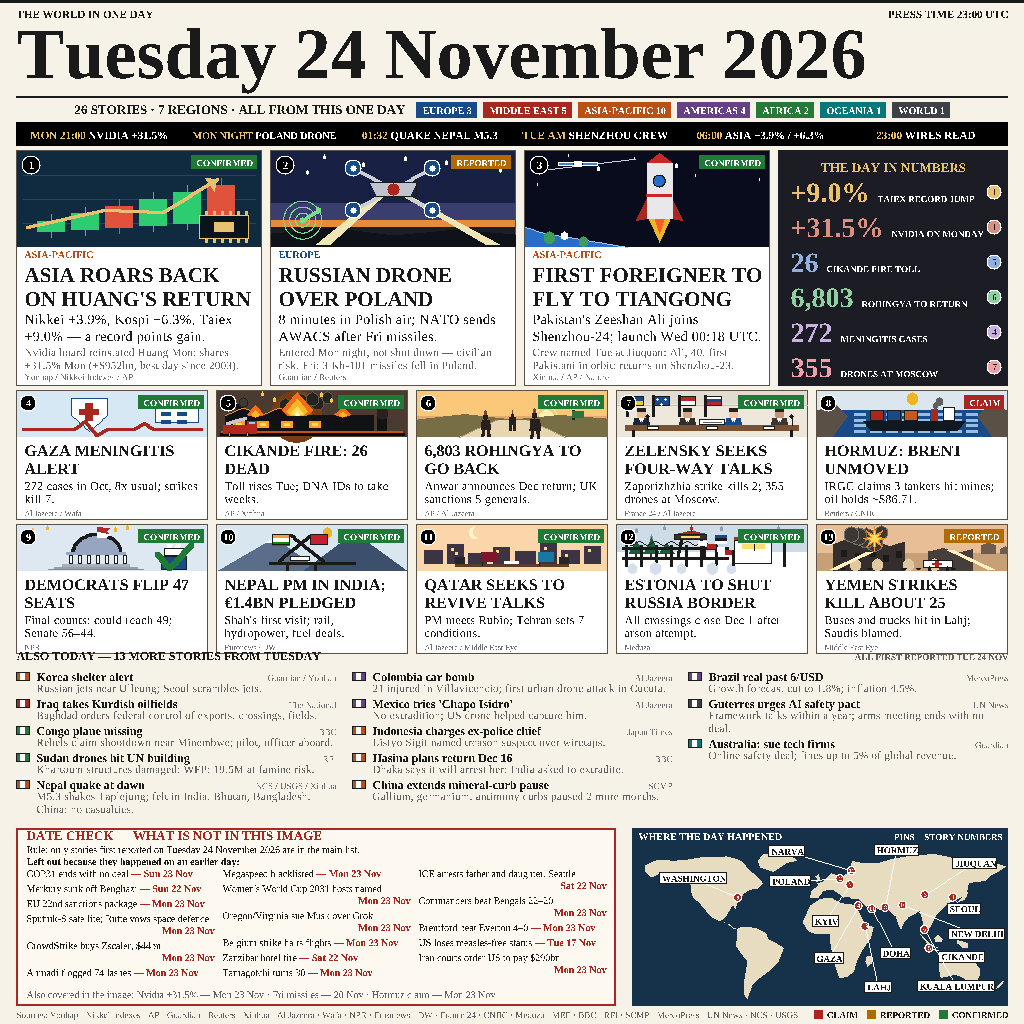
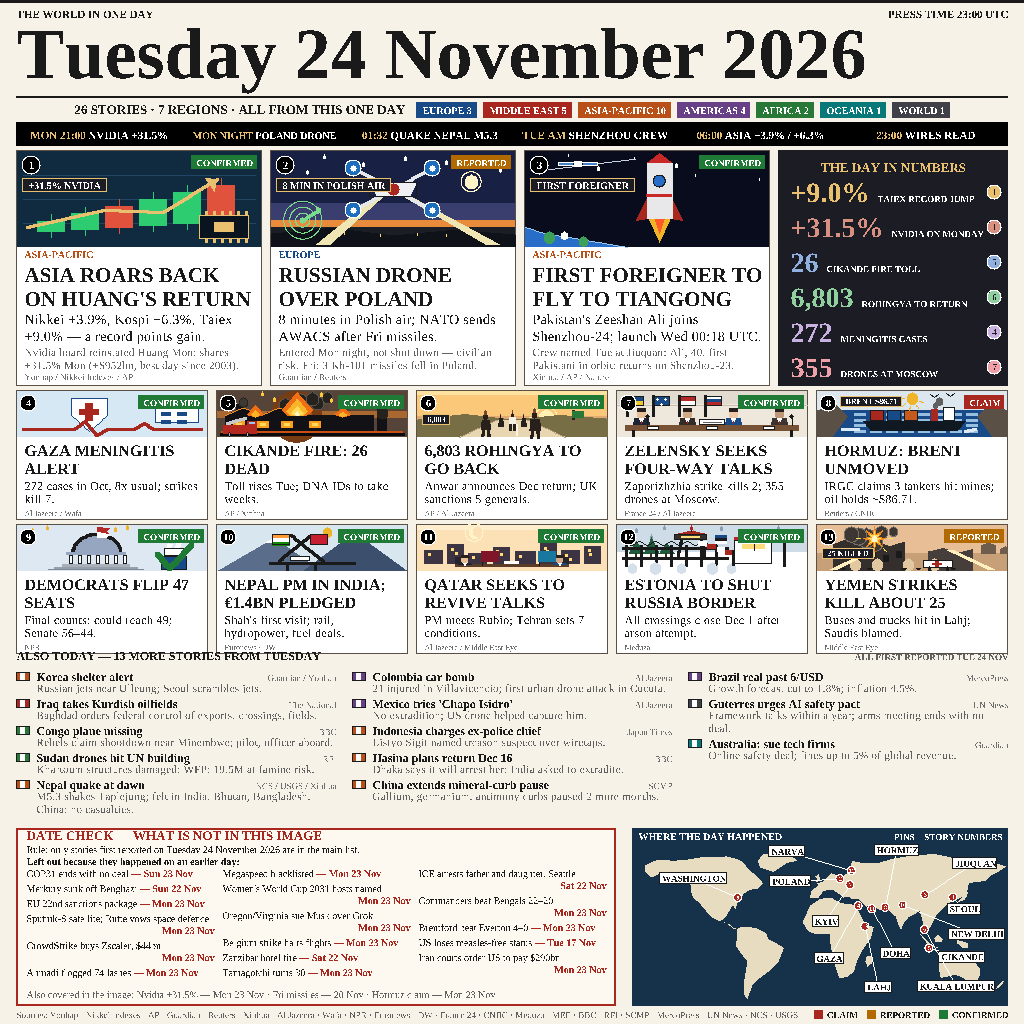
v2.4: dark callout pills on leads 1-3 + cards 6/8/13, brighter drone/factory/Rohingya/Qatar/tanker/Yemen art, text + map re-verified

diff --git a/main.py b/main.py
@@ -443,6 +443,25 @@ def draw_badge(x_right, y_top, badge):
     return w
 
 
+# v2.4: dark callout pills with a gold outline, for the lead cards' key
+# hook/metric and for the small cards' headline numbers. Facts only,
+# taken verbatim from STORY-LIST.md (nothing invented).
+LEAD_CALLOUTS = {1: "+31.5% NVIDIA", 2: "8 MIN IN POLISH AIR",
+                  3: "FIRST FOREIGNER"}
+SMALL_CALLOUTS = {6: "6,803", 8: "BRENT $86.71", 13: "25 KILLED"}
+
+
+def draw_callout(x, y_top, text, size=10):
+    """Dark pill, left-aligned at x, top at y_top. Returns width."""
+    pad = 6 if size >= 10 else 5
+    w = int(math.ceil(text_width(text, size, "bold"))) + pad * 2
+    h = 14 if size >= 10 else 11
+    fill_rect(x, y_top, x + w, y_top + h, DARK)
+    draw_rect_outline(x, y_top, x + w, y_top + h, GOLD, 1)
+    draw_text(x + pad, y_top + h - 3, text, size, "bold", WHITE)
+    return w
+
+
 def draw_num_disc(cx, cy, num, r=9, bg=BLACK, fg=WHITE, size=11):
     fill_circle(cx, cy, r, bg)
     draw_circle_ring(cx, cy, r, WHITE)
@@ -516,6 +535,12 @@ def art_drone(x, y, w, h):
     fill_poly([(x, y + h), (x, y + h * 0.86), (x + w * 0.25, y + h * 0.80),
                (x + w * 0.5, y + h * 0.88), (x + w * 0.75, y + h * 0.82),
                (x + w, y + h * 0.87), (x + w, y + h)], (16, 18, 26))
+    # settlement lights along the terrain + a moon (clear of the badge)
+    for (lx, ly) in [(0.30, 0.86), (0.45, 0.885), (0.60, 0.865),
+                      (0.72, 0.885)]:
+        fill_circle(x + w * lx, y + h * ly, 1, (255, 220, 120))
+    fill_circle(x + w * 0.82, y + h * 0.32, 7, (255, 244, 200))
+    draw_circle_ring(x + w * 0.82, y + h * 0.32, 10, (255, 244, 200))
     # searchlight beams from the ground to the drone
     cx, cy = x + w * 0.50, y + h * 0.40
     fill_poly([(x + w * 0.18, y + h - 2), (x + w * 0.24, y + h - 2),
@@ -532,12 +557,12 @@ def art_drone(x, y, w, h):
     # drone: arms, rotors, body, red eye
     for (dx, dy) in [(-1, -1), (1, -1), (-1, 1), (1, 1)]:
         ax, ay = cx + dx * w * 0.16, cy + dy * h * 0.22
-        draw_line(int(cx), int(cy), int(ax), int(ay), (200, 205, 215), 3)
-        fill_circle(int(ax), int(ay), 8, (24, 74, 135))
+        draw_line(int(cx), int(cy), int(ax), int(ay), (228, 231, 236), 3)
+        fill_circle(int(ax), int(ay), 8, (30, 110, 190))
         draw_circle_ring(int(ax), int(ay), 8, WHITE)
         fill_circle(int(ax), int(ay), 3, WHITE)
     fill_poly([(cx - 24, cy - 7), (cx + 24, cy - 7), (cx + 16, cy + 8),
-               (cx - 16, cy + 8)], (190, 195, 205))
+               (cx - 16, cy + 8)], (238, 240, 244))
     draw_rect_outline(cx - 24, cy - 7, cx + 24, cy + 8, INK, 1)
     fill_circle(int(cx), int(cy), 6, RED)
 
@@ -622,7 +647,10 @@ def art_cross(x, y, w, h):
 
 def art_flame(x, y, w, h):
     """Cikande factory fire: structure, bright flames, dark smoke."""
-    fill_rect(x, y, x + w, y + h, (74, 58, 48))
+    fill_rect(x, y, x + w, y + h, (86, 68, 56))
+    # lighter horizon band behind the factory so the black silhouette
+    # (and its sawtooth roof) reads as a building, never a hill
+    fill_rect(x, y + int(h * 0.44), x + w, y + int(h * 0.60), (168, 104, 48))
     # warm glow behind the flames
     fill_circle(x + w * 0.42, y + h * 0.55, 26, (120, 60, 20))
     fill_circle(x + w * 0.42, y + h * 0.55, 16, (170, 80, 20))
@@ -693,10 +721,18 @@ def art_flame(x, y, w, h):
 def art_boat(x, y, w, h):
     """Rohingya return: dawn road, walking families, hills, flag."""
     fill_rect(x, y, x + w, y + h * 0.55, (250, 200, 120))
+    fill_rect(x, y, x + w, y + int(h * 0.10), (255, 226, 160))
     fill_rect(x, y + h * 0.55, x + w, y + h, (226, 170, 110))
-    # sun, low on the horizon (clear of the badge)
+    # sun, low on the horizon (clear of the badge), with rays
     fill_circle(x + w * 0.68, y + h * 0.58, 8, (255, 240, 180))
     draw_circle_ring(x + w * 0.68, y + h * 0.58, 11, (255, 240, 180))
+    for ang in (10, 55, 100, 145, 180, -145, -100):
+        t = math.radians(ang)
+        x1 = x + w * 0.68 + 12 * math.cos(t)
+        y1 = y + h * 0.58 + 12 * math.sin(t)
+        x2 = x + w * 0.68 + 17 * math.cos(t)
+        y2 = y + h * 0.58 + 17 * math.sin(t)
+        draw_line(int(x1), int(y1), int(x2), int(y2), (255, 240, 180), 1)
     # distant hills
     fill_poly([(x, y + h * 0.62), (x + w * 0.25, y + h * 0.50),
                (x + w * 0.5, y + h * 0.62), (x + w * 0.75, y + h * 0.52),
@@ -707,14 +743,23 @@ def art_boat(x, y, w, h):
                (x + w * 0.78, y + h), (x + w * 0.22, y + h)], (232, 214, 178))
     draw_line(x + w * 0.42, y + h * 0.62, x + w * 0.22, y + h, (180, 160, 120), 1)
     draw_line(x + w * 0.58, y + h * 0.62, x + w * 0.78, y + h, (180, 160, 120), 1)
-    # walking figures, near to far
-    for (fx, fy, s) in [(0.36, 0.76, 1.05), (0.50, 0.68, 0.8),
-                         (0.62, 0.76, 1.2)]:
+    # dashed centre line on the road (offset right of the middle walker)
+    for t in (0.30, 0.52, 0.74):
+        dx = x + w * 0.53
+        dy = y + h * (0.62 + t * 0.38)
+        fill_rect(dx - 1, dy, dx + 1, dy + 4, (250, 244, 225))
+    # walking figures, near to far (middle walker in a light shirt;
+    # two small distant walkers near the horizon)
+    for (fx, fy, s, shirt) in [(0.36, 0.76, 1.05, (40, 32, 28)),
+                                (0.50, 0.68, 0.8, (245, 240, 225)),
+                                (0.62, 0.76, 1.2, (40, 32, 28)),
+                                (0.44, 0.645, 0.45, (40, 32, 28)),
+                                (0.56, 0.645, 0.45, (40, 32, 28))]:
         px, py = x + w * fx, y + h * fy
         fill_circle(px, py - 9 * s, 3 * s, (40, 32, 28))
         fill_poly([(px - 4 * s, py - 6 * s), (px + 4 * s, py - 6 * s),
                    (px + 5 * s, py + 4 * s), (px - 5 * s, py + 4 * s)],
-                  (40, 32, 28))
+                  shirt)
         draw_line(px - 2 * s, py + 4 * s, px - 3 * s, py + 9 * s, (40, 32, 28), 2)
         draw_line(px + 2 * s, py + 4 * s, px + 3 * s, py + 9 * s, (40, 32, 28), 2)
         # bundle on the head
@@ -816,8 +861,25 @@ def art_tanker(x, y, w, h):
         bx = hx0 + 8 + i * 17
         fill_rect(bx, hy - 11, bx + 14, hy, c)
         draw_rect_outline(bx, hy - 11, bx + 14, hy, INK, 1)
-    # sun
+    # wake foam behind the hull + bow wave
+    for wx in range(int(hx0 - 20), int(hx0 - 2), 6):
+        draw_line(wx, int(hy + 8), wx + 4, int(hy + 8), (220, 235, 245), 2)
+    draw_line(int(hx1), int(hy + 10), int(hx1 + 10), int(hy + 8),
+              (220, 235, 245), 2)
+    # sun with short rays (downward/side only: the sun sits near the top)
     fill_circle(x + w * 0.50, y + h * 0.16, 6, (240, 180, 40))
+    for ang in (20, 60, 100, 140, 180):
+        t = math.radians(ang)
+        x1 = x + w * 0.50 + 8 * math.cos(t)
+        y1 = y + h * 0.16 + 8 * math.sin(t)
+        x2 = x + w * 0.50 + 12 * math.cos(t)
+        y2 = y + h * 0.16 + 12 * math.sin(t)
+        draw_line(int(x1), int(y1), int(x2), int(y2), (240, 180, 40), 1)
+    # gulls in the sky, right of the sun and clear of the CLAIM badge
+    for (gx, gy) in [(0.62, 0.08), (0.70, 0.05)]:
+        cx, cy = x + w * gx, y + h * gy
+        draw_line(int(cx - 4), int(cy), int(cx), int(cy + 3), INK, 1)
+        draw_line(int(cx), int(cy + 3), int(cx + 4), int(cy), INK, 1)
 
 
 def art_ballot(x, y, w, h):
@@ -903,10 +965,12 @@ def art_mountain(x, y, w, h):
 
 def art_talks(x, y, w, h):
     """Doha talks: West Bay skyline at dusk, long table, two flags."""
-    fill_rect(x, y, x + w, y + h, (250, 214, 170))
-    # crescent moon, top centre-left
+    fill_rect(x, y, x + w, y + h, (252, 224, 182))
+    fill_rect(x, y, x + w, y + int(h * 0.12), (255, 238, 205))
+    # crescent moon, top centre-left, with a glow ring
     fill_circle(x + w * 0.30, y + h * 0.16, 6, (255, 244, 200))
-    fill_circle(x + w * 0.30 + 3, y + h * 0.16 - 1, 5, (250, 214, 170))
+    fill_circle(x + w * 0.30 + 3, y + h * 0.16 - 1, 5, (252, 224, 182))
+    draw_circle_ring(x + w * 0.30, y + h * 0.16, 9, (255, 244, 200))
     # skyline silhouettes
     towers = [(0.04, 0.55, 0.10), (0.16, 0.42, 0.09), (0.27, 0.62, 0.10),
               (0.40, 0.48, 0.09), (0.52, 0.58, 0.11), (0.65, 0.40, 0.09),
@@ -917,9 +981,11 @@ def art_talks(x, y, w, h):
     # pointed tower, centre-right
     fill_poly([(x + w * 0.65, y + h * 0.40), (x + w * 0.69, y + h * 0.30),
                (x + w * 0.74, y + h * 0.40)], (60, 52, 66))
-    # lit windows
-    for (wx, wy) in [(0.18, 0.50), (0.20, 0.60), (0.42, 0.56), (0.67, 0.48),
-                      (0.78, 0.64), (0.90, 0.54)]:
+    # lit windows (one per tower face, checked against the tower list)
+    for (wx, wy) in [(0.06, 0.62), (0.18, 0.50), (0.20, 0.60), (0.29, 0.68),
+                      (0.42, 0.56), (0.44, 0.62), (0.54, 0.66), (0.67, 0.48),
+                      (0.68, 0.56), (0.78, 0.64), (0.80, 0.72), (0.90, 0.54),
+                      (0.91, 0.62)]:
         fill_rect(x + w * wx, y + h * wy, x + w * wx + 3, y + h * wy + 3,
                   (255, 220, 120))
     # long table + chairs + document
@@ -929,13 +995,25 @@ def art_talks(x, y, w, h):
               (40, 36, 44))
     fill_rect(x + w * 0.80 - 10, y + h * 0.70, x + w * 0.80, y + h * 0.86,
               (40, 36, 44))
+    # two seated delegates behind the table (in the chairs, clear of the
+    # flag poles at 0.34w / 0.64w)
+    for (fx, skin, suit) in [(0.25, (232, 190, 150), (30, 36, 52)),
+                             (0.75, (210, 170, 135), (24, 74, 135))]:
+        cx = x + w * fx
+        hy = y + h * 0.74
+        fill_circle(cx, hy, 4, skin)
+        fill_poly([(cx - 5, hy - 1), (cx + 5, hy - 1), (cx + 4, hy - 4),
+                   (cx - 4, hy - 4)], (40, 32, 28))
+        fill_poly([(cx - 7, y + h * 0.86), (cx + 7, y + h * 0.86),
+                   (cx + 5, hy + 4), (cx - 5, hy + 4)], suit)
+        fill_poly([(cx - 2, hy + 4), (cx + 2, hy + 4), (cx, hy + 8)], WHITE)
     fill_rect(x + w * 0.46, y + h * 0.80, x + w * 0.54, y + h * 0.86, WHITE)
-    # two flags on the table: Qatar maroon + light blue
-    draw_line(x + w * 0.34, y + h * 0.86, x + w * 0.34, y + h * 0.60, INK, 1)
-    fill_rect(x + w * 0.34, y + h * 0.60, x + w * 0.34 + 16, y + h * 0.60 + 10,
+    # two flags on the table: Qatar maroon + light blue (bigger than v2.3)
+    draw_line(x + w * 0.34, y + h * 0.86, x + w * 0.34, y + h * 0.58, INK, 1)
+    fill_rect(x + w * 0.34, y + h * 0.58, x + w * 0.34 + 18, y + h * 0.58 + 11,
               (128, 20, 40))
-    draw_line(x + w * 0.64, y + h * 0.86, x + w * 0.64, y + h * 0.60, INK, 1)
-    fill_rect(x + w * 0.64, y + h * 0.60, x + w * 0.64 + 16, y + h * 0.60 + 10,
+    draw_line(x + w * 0.64, y + h * 0.86, x + w * 0.64, y + h * 0.58, INK, 1)
+    fill_rect(x + w * 0.64, y + h * 0.58, x + w * 0.64 + 18, y + h * 0.58 + 11,
               (24, 120, 160))
 
 
@@ -1043,7 +1121,7 @@ def art_blast(x, y, w, h):
     # smoke column, bigger and darker, rising from the ruin (clear of badge;
     # puff tops kept >= y+1 so nothing paints above the art rect)
     for (sx, sy, sr) in [(0.30, 0.38, 8), (0.26, 0.28, 9), (0.22, 0.24, 8),
-                          (0.18, 0.20, 7), (0.34, 0.16, 6)]:
+                          (0.18, 0.20, 7), (0.34, 0.16, 6), (0.40, 0.14, 4)]:
         fill_circle(x + w * sx, y + h * sy, sr + 1, (120, 112, 104))
         fill_circle(x + w * sx, y + h * sy, sr, (60, 55, 50))
     # explosion flash: 8-point starburst drawn AFTER the smoke so the burst
@@ -1061,6 +1139,12 @@ def art_blast(x, y, w, h):
         r = 8 if i % 2 == 0 else 3
         star2.append((fx + r * math.cos(ang), fy + r * math.sin(ang)))
     fill_poly(star2, (255, 220, 90))
+    # white-hot core + short sparks (side/down only: the burst sits near
+    # the top of the art rect)
+    fill_circle(fx, fy, 3, (255, 245, 200))
+    for (dx, dy) in [(-1, 0), (1, 0), (-0.7, 0.7), (0, 1), (0.7, 0.7)]:
+        draw_line(int(fx + dx * 14), int(fy + dy * 14),
+                  int(fx + dx * 18), int(fy + dy * 18), (255, 220, 90), 1)
     # second building, right, lower
     fill_poly([(x + w * 0.58, y + h), (x + w * 0.58, y + h * 0.58),
                (x + w * 0.66, y + h * 0.50), (x + w * 0.74, y + h * 0.60),
@@ -1272,6 +1356,11 @@ def draw_lead_card(x, y, num, region, head, deck, subdeck, sources, badge, art):
     ART[art](x + 1, y + 1, w - 2, 96)
     draw_num_disc(x + 15, y + 15, num, r=9, size=11)
     draw_badge(x + w - 5, y + 5, badge)
+    # v2.4: dark callout pill, top-left below the number disc (measured
+    # clear of the art's focal elements on all three leads).
+    call = LEAD_CALLOUTS.get(num)
+    if call:
+        draw_callout(x + 6, y + 28, call, 10)
     draw_text(x + 8, y + 108, REGION_SHORT[region], 10, "bold",
               REGION_COLOR[region])
     draw_wrapped(x + 8, y + 132, head, 21, "bold", INK, w - 16, 24, 2)
@@ -1303,6 +1392,17 @@ def draw_small_card(x, y, num, region, head, deck, sources, badge, art):
     ART[art](x + 1, y + 1, w - 2, 46)
     draw_num_disc(x + 12, y + 13, num, r=8, size=10)
     draw_badge(x + w - 4, y + 5, badge)
+    # v2.4: dark callout pill, top-left below the number disc (measured
+    # clear of each art's focal elements on cards 6 and 13). Card 8's
+    # tanker fills the lower art, so its pill rides the top sky strip
+    # instead (clear of the disc, the sun and the funnel smoke); the "~"
+    # qualifier lives in the deck ("oil holds ~$86.71").
+    call = SMALL_CALLOUTS.get(num)
+    if call:
+        if num == 8:
+            draw_callout(x + 24, y + 6, call, 8)
+        else:
+            draw_callout(x + 6, y + 24, call, 8)
     draw_wrapped(x + 8, y + 66, head, 16, "bold", INK, w - 16, 18, 2)
     # v2.3: deck 10->12 / leading 11->13 / tracking 0.3 (measured: still
     # <=2 lines for all ten small decks; 4px clear to the sources line).
